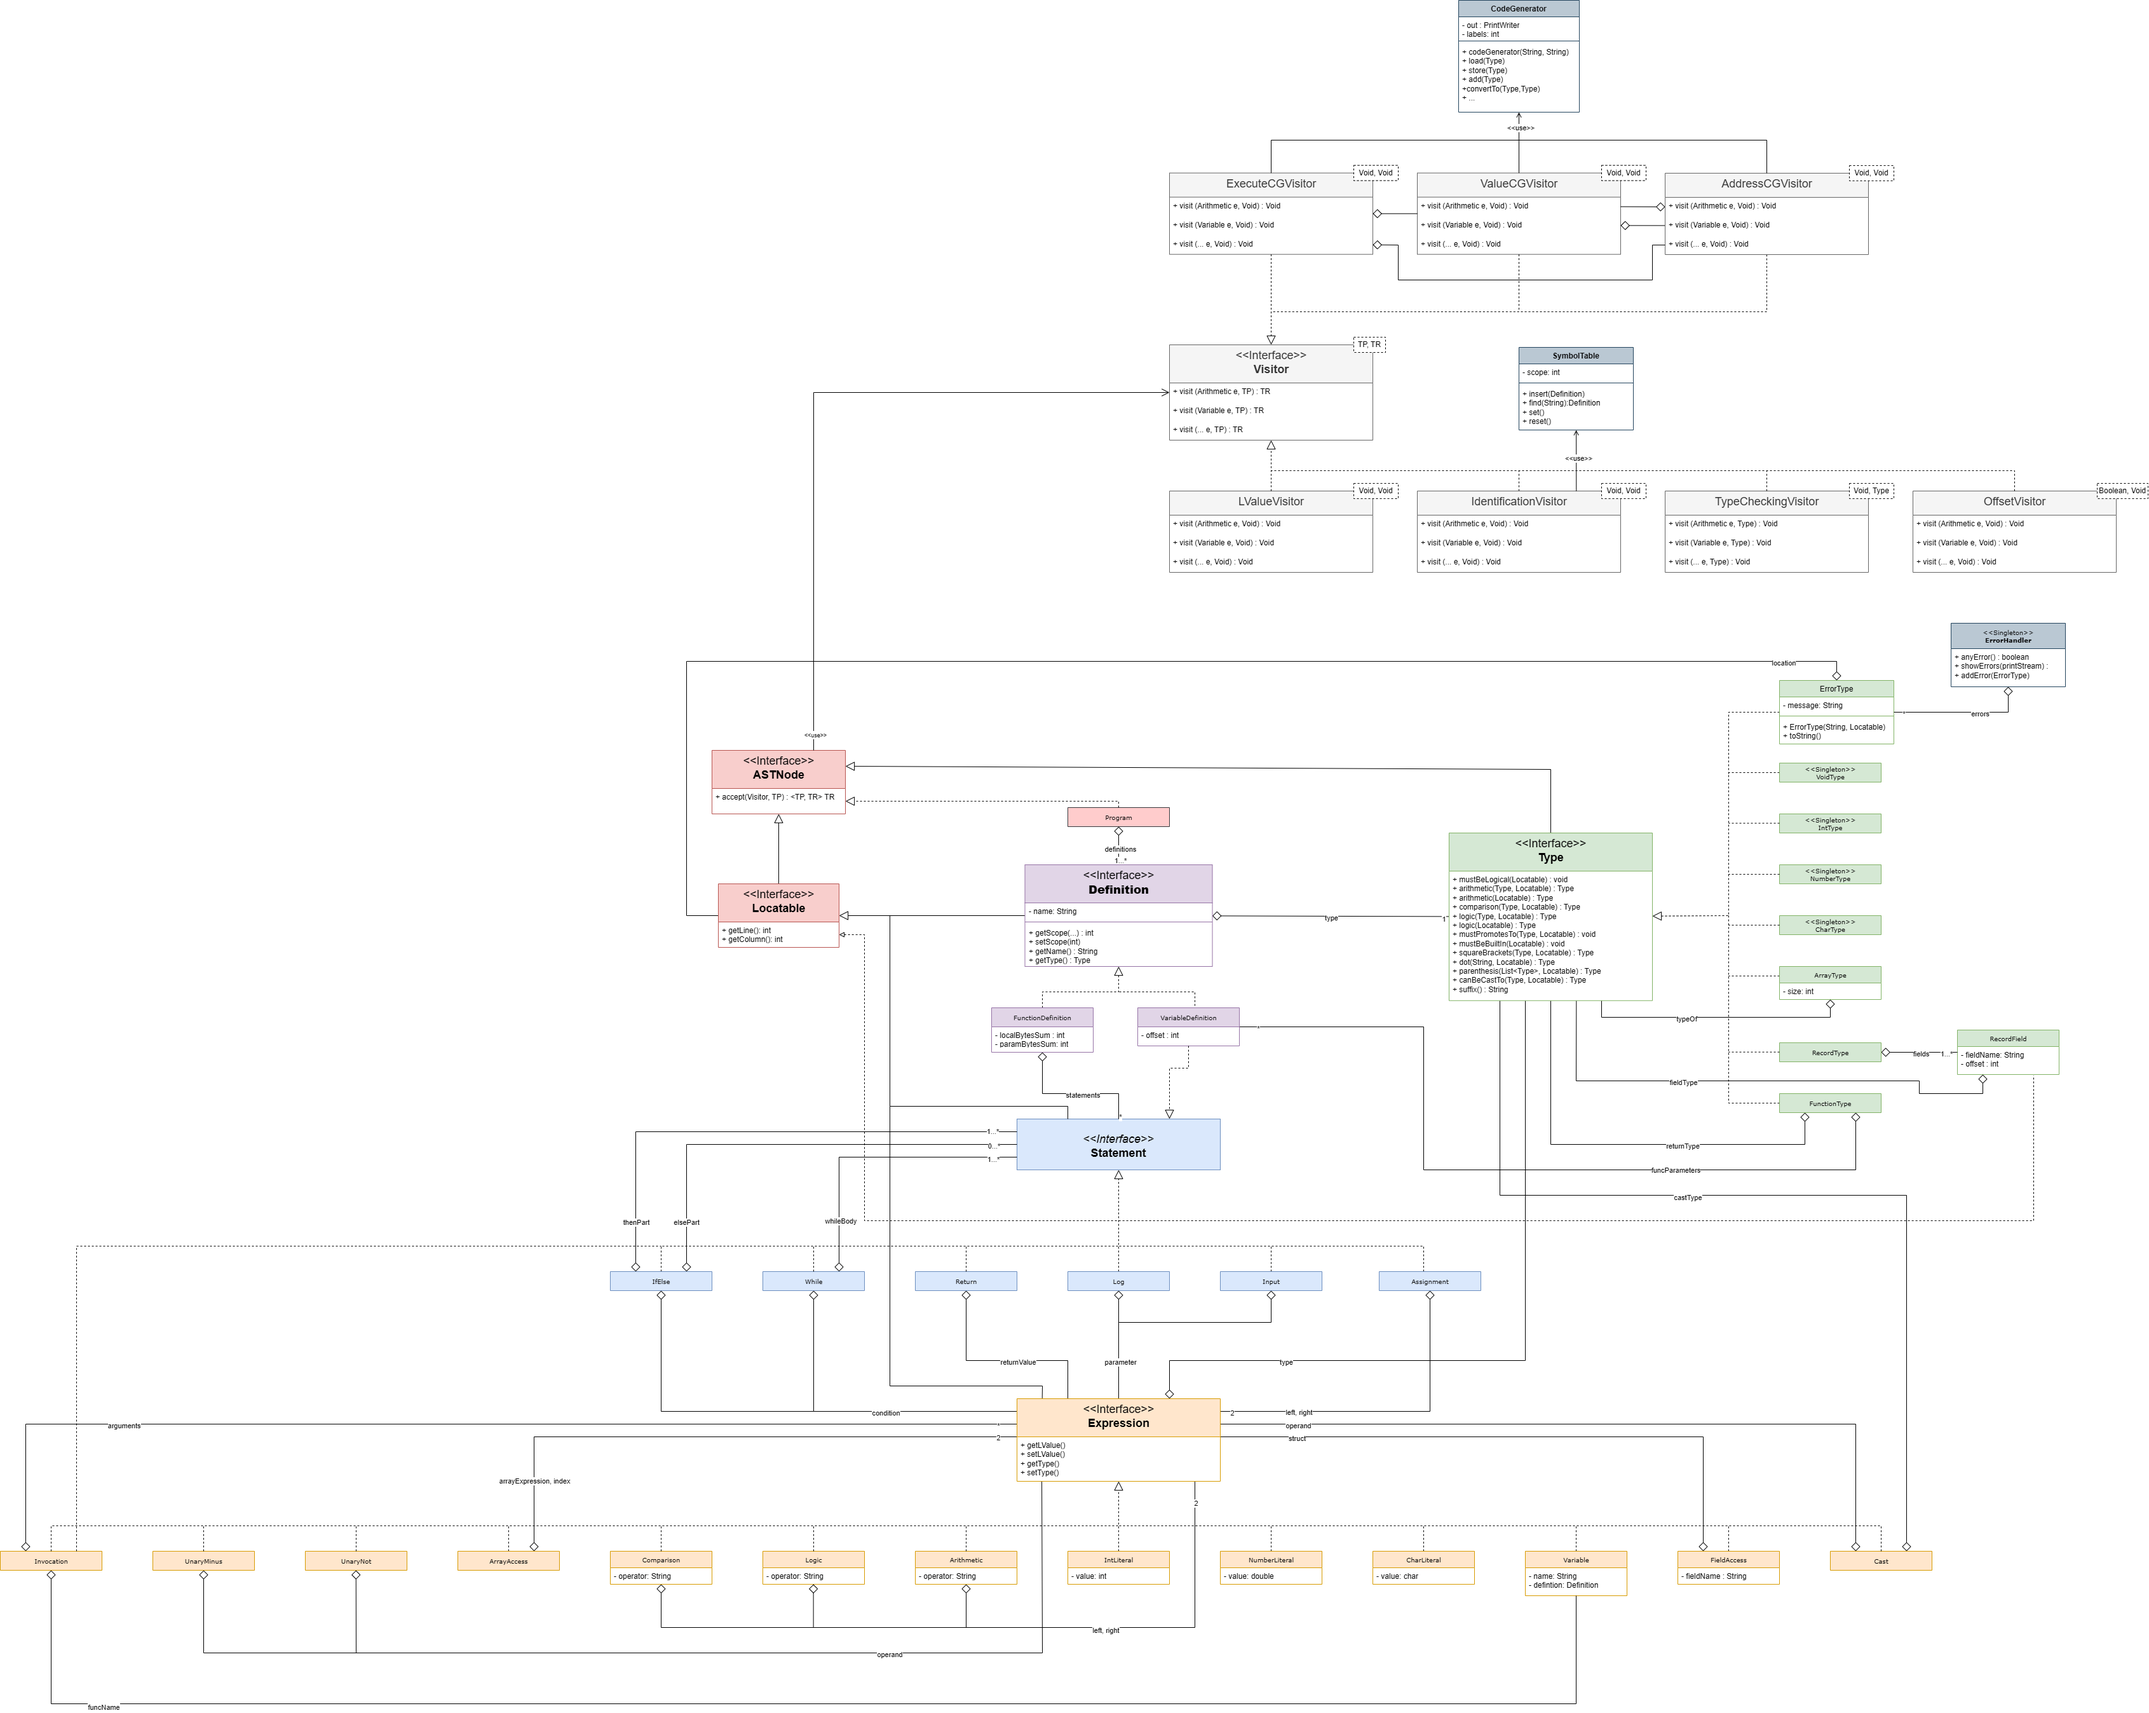
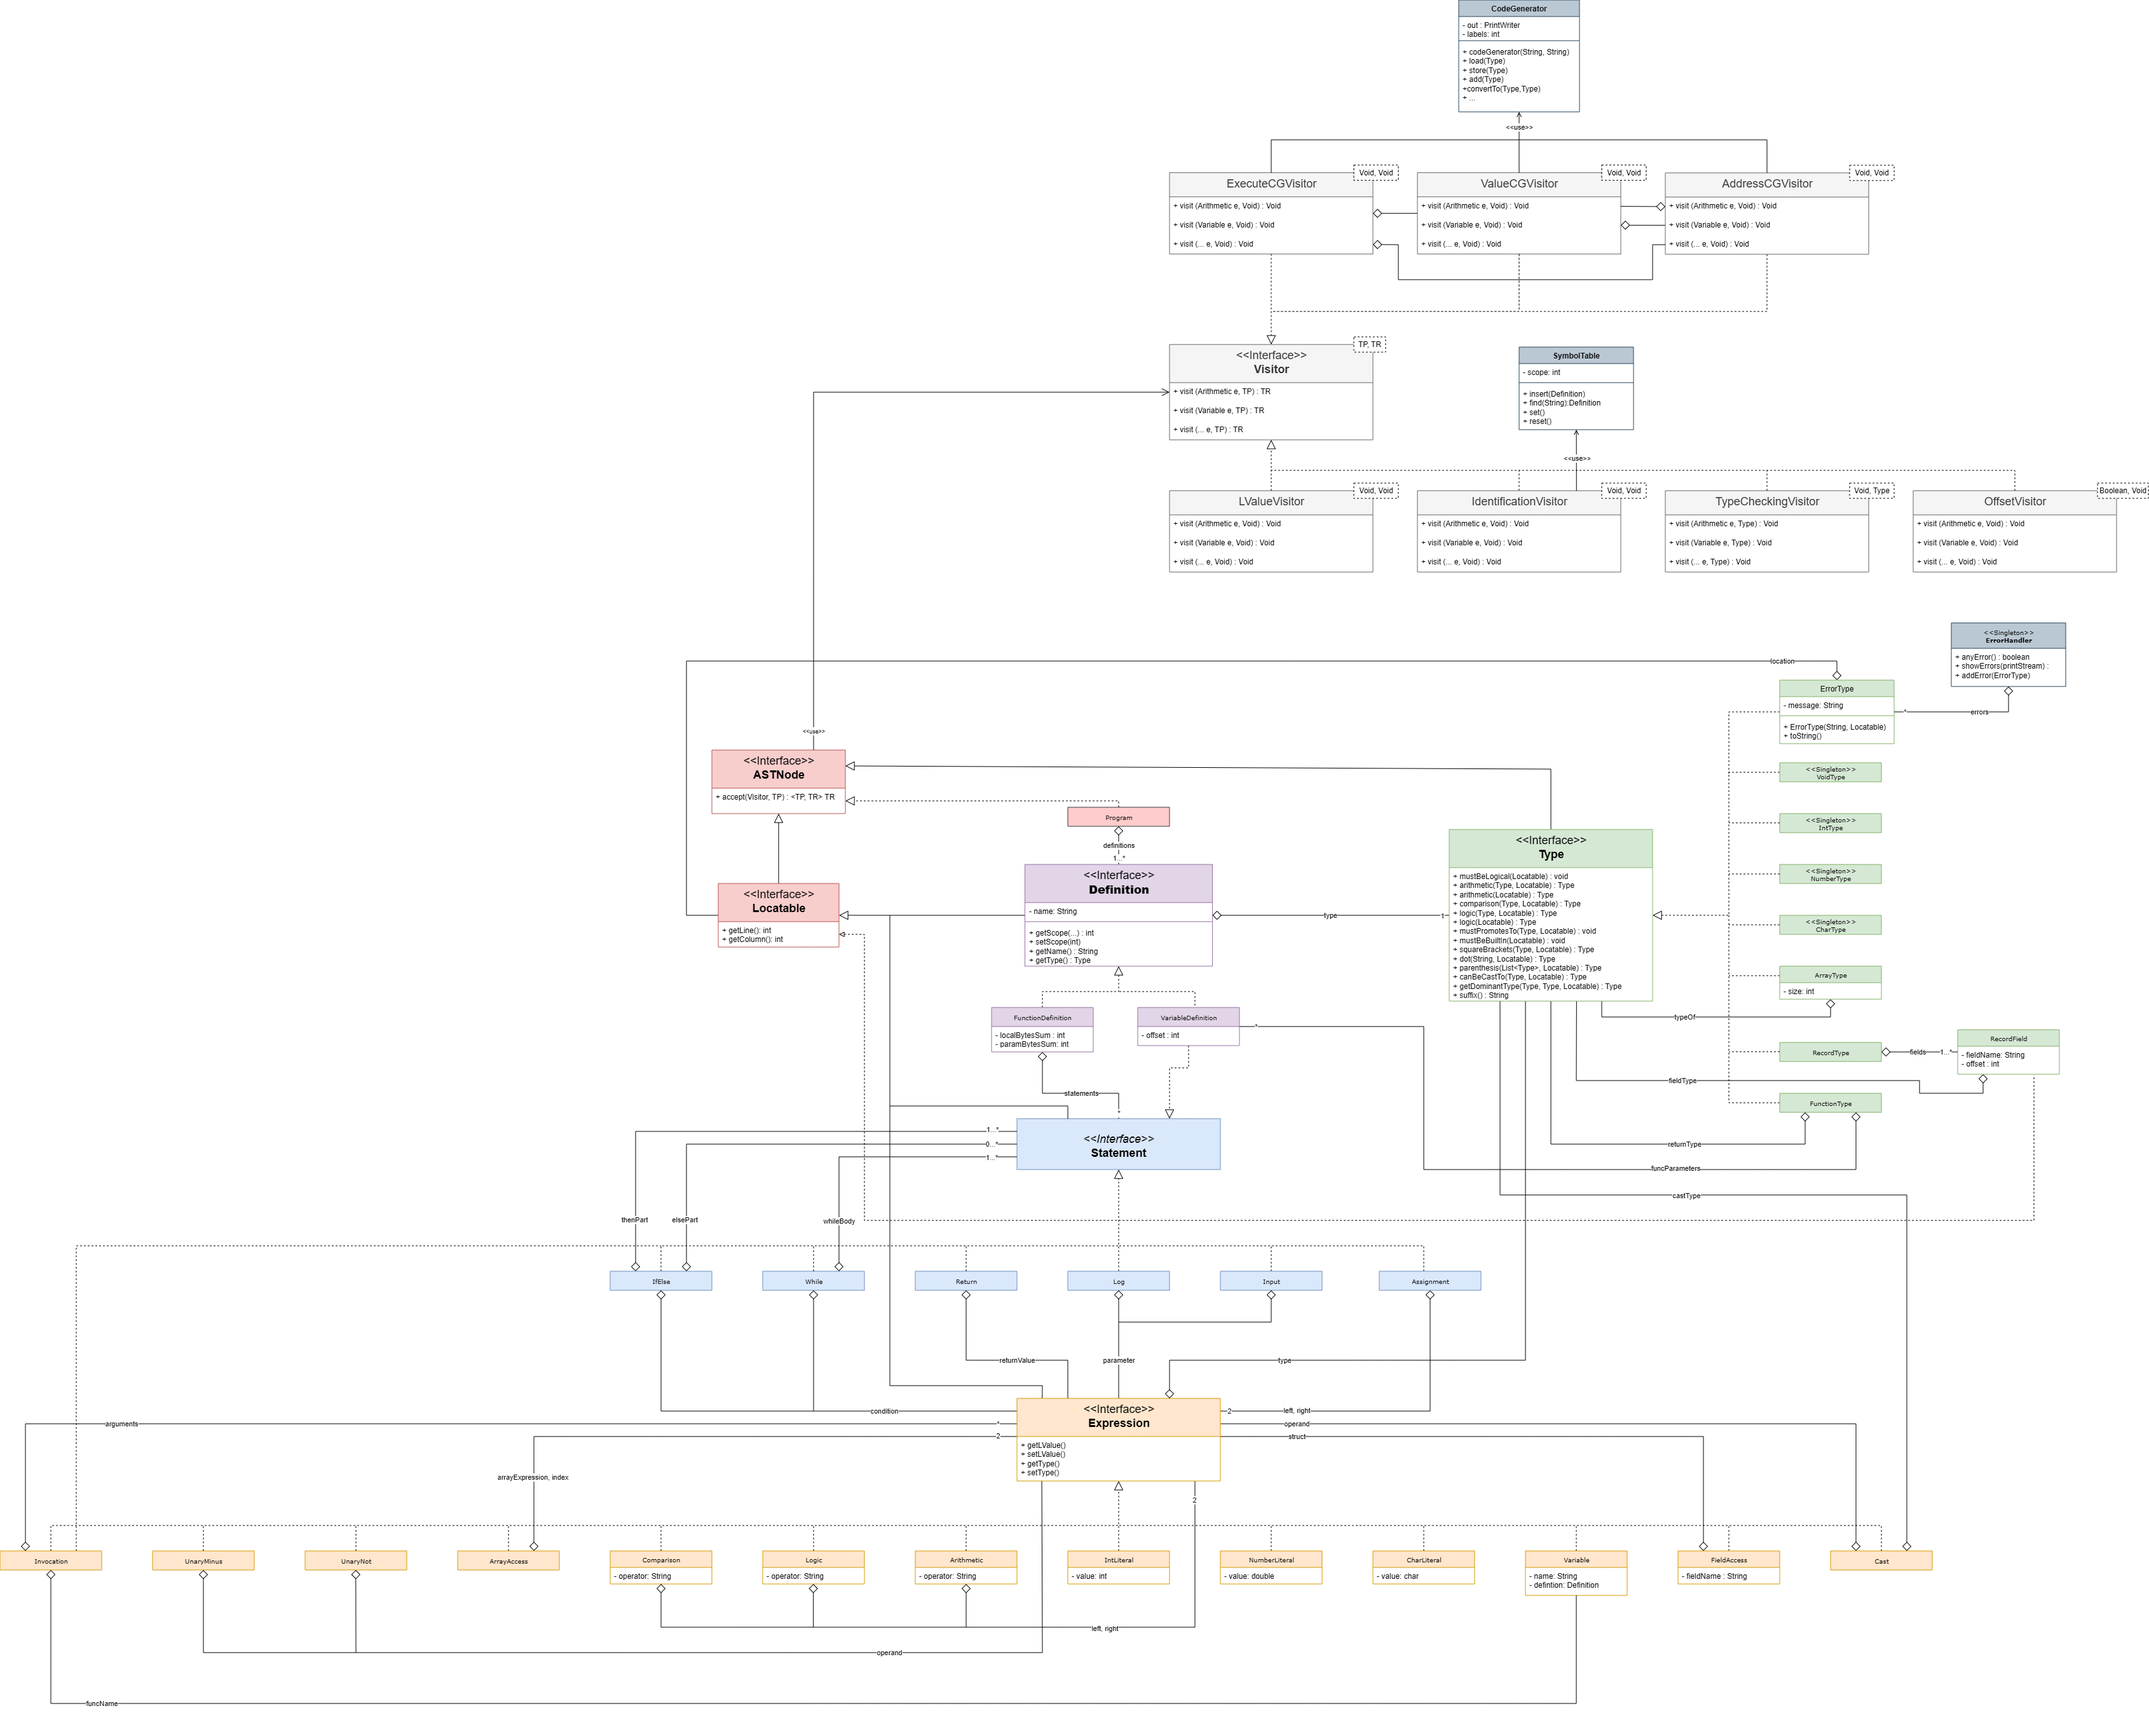
fix: promoción implícita en el comparison

diff --git a/src/codegen/ValueCGVisitor.java b/src/codegen/ValueCGVisitor.java
@@ -129,11 +129,12 @@ public class ValueCGVisitor extends AbstractCGVisitor<Void,Void> {
      */
     @Override
     public Void visit(Comparison e, Void param){
+        Type toConvert = e.getType().getDominantType(e.getLeft().getType(),e.getRight().getType(),e);
         e.getLeft().accept(this, param);
-        cg.convertTo(e.getLeft().getType(), e.getType());
+        cg.convertTo(e.getLeft().getType(), toConvert);
         e.getRight().accept(this, param);
-        cg.convertTo(e.getRight().getType(), e.getType());
-        cg.comparison(e.getType(), e.getOperator());
+        cg.convertTo(e.getRight().getType(), toConvert);
+        cg.comparison(toConvert, e.getOperator());
         return null;
     }
 

diff --git a/src/ast/type/AbstractType.java b/src/ast/type/AbstractType.java
@@ -83,6 +83,15 @@ public abstract class AbstractType implements Type{
     }
 
     @Override
+    public Type getDominantType(Type type1, Type type2,  Locatable locatable) {
+        if (type1 instanceof ErrorType)
+            return type1;
+        if (type2 instanceof ErrorType)
+            return type2;
+        return new  ErrorType("Types "+type1+" and "+type2+" dont support dominant operation", locatable);
+    }
+
+    @Override
     public int getNumberOfBytes() {
         throw new UnsupportedOperationException("getNumberOfBytes is not supported for type " + this);
     }

diff --git a/src/ast/type/IntType.java b/src/ast/type/IntType.java
@@ -83,6 +83,13 @@ public class IntType extends AbstractType{
     }
 
     @Override
+    public Type getDominantType(Type type1, Type type2,  Locatable locatable) {
+        if(type1 == NumberType.getInstance() || type2 == NumberType.getInstance())
+            return NumberType.getInstance();
+        return this;
+    }
+
+    @Override
     public int getNumberOfBytes() {
         return 2;
     }

diff --git a/src/ast/type/Type.java b/src/ast/type/Type.java
@@ -20,6 +20,7 @@ public interface Type extends ASTNode {
     Type parenthesis(List<Type> parameters, Locatable locatable);
     Type canBeCastTo(Type type, Locatable locatable);
     int getNumberOfBytes();
+    Type getDominantType(Type type1, Type type2, Locatable locatable);
     String suffix();
 
 }
